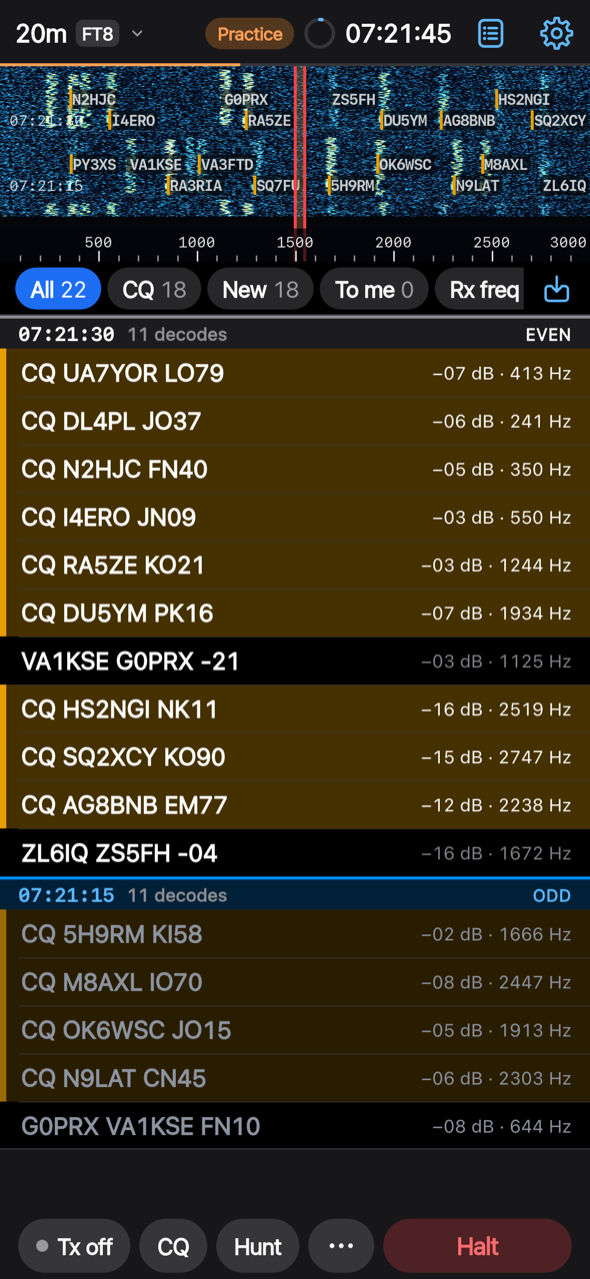
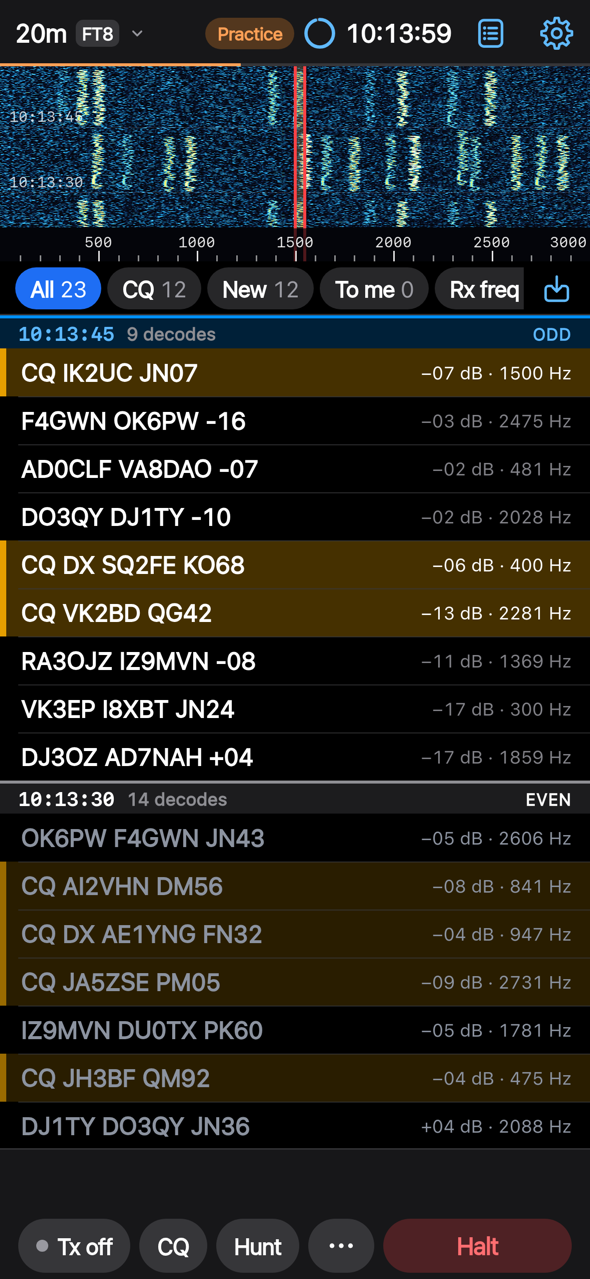
Start with the callsigns on the waterfall off
Labels over every signal crowd the phone's short waterfall. They now
start off, and Settings › Radio and audio turns them on. The README's
iPhone FT8 screenshots are taken again without them; the iPad and
desktop walkthrough runs turn them on, so those screenshots show the
feature.

Checks: settings test for the default, the practice band test turns
the labels on and off, walkthrough screens in SF fonts.

diff --git a/web/e2e/practice.spec.ts b/web/e2e/practice.spec.ts
@@ -94,15 +94,22 @@ test('practice on shows the tag and decodes the band without a microphone', asyn
   await expect(row(page, /^CQ /).first()).toBeVisible();
   expect(media).toEqual([]);
 
-  // The waterfall writes each sender over its signal; Radio and audio turns that off.
+  // Radio and audio turns on the sender written over each signal on the waterfall; off by default.
+  const labels = async (on: boolean) => {
+    await page.getByRole('navigation', { name: 'Screens' }).getByRole('link', { name: 'Settings' }).click();
+    await page.getByRole('link', { name: /^Radio and audio/ }).click();
+    const sw = page.getByRole('switch', { name: /^Callsigns on the waterfall/ });
+    await expect(sw).toBeChecked({ checked: !on });
+    await sw.setChecked(on);
+    await page.getByRole('link', { name: 'Settings', exact: true }).click();
+    await page.getByRole('link', { name: 'Operate' }).click();
+  };
+  await expect(page.getByTestId('wf-call')).toHaveCount(0);
+  await labels(true);
   const label = page.getByTestId('wf-call').first();
   await expect(label).toBeVisible({ timeout: 20_000 });
   await expect(page.getByTestId('decode-list').locator('.c-msg', { hasText: (await label.textContent())! }).first()).toBeVisible();
-  await page.getByRole('navigation', { name: 'Screens' }).getByRole('link', { name: 'Settings' }).click();
-  await page.getByRole('link', { name: /^Radio and audio/ }).click();
-  await page.getByRole('switch', { name: /^Callsigns on the waterfall/ }).uncheck();
-  await page.getByRole('link', { name: 'Settings', exact: true }).click();
-  await page.getByRole('link', { name: 'Operate' }).click();
+  await labels(false);
   await expect(page.getByTestId('wf-call')).toHaveCount(0);
 });
 

diff --git a/web/e2e/walkthrough.spec.ts b/web/e2e/walkthrough.spec.ts
@@ -17,11 +17,14 @@ test.beforeEach(async () => {
 /**
  * The station set up as after first use: callsign, grid, and a Tx frequency already picked on the
  * waterfall, so its first-use hint is gone. Then the practice band on, and Operate receiving.
+ * The iPad and desktop screenshots show the callsigns on the waterfall; the iPhone ones keep the
+ * default, off, so the phone's smaller waterfall stays clear.
  */
 async function practiceOn(page: Page, theme: 'light' | 'dark') {
   await useTheme(page, theme);
   await page.goto('./');
-  await seed(page, { ...emptySeed(), kv: [{ key: 'settings', value: { callsign: '9V1NE', grid: 'OJ11', freqPicked: true } }] });
+  const waterfallCalls = test.info().project.name !== 'walkthrough';
+  await seed(page, { ...emptySeed(), kv: [{ key: 'settings', value: { callsign: '9V1NE', grid: 'OJ11', freqPicked: true, waterfallCalls } }] });
   await page.goto('./#/settings/practice');
   await page.getByRole('switch', { name: /^Practice band/ }).check();
   await page.getByRole('link', { name: 'Settings' }).click();

diff --git a/web/src/lib/state/settings.svelte.ts b/web/src/lib/state/settings.svelte.ts
@@ -114,7 +114,7 @@ export interface Settings {
   highlights: HighlightEntry[];
   /** How many dB over the noise reach the top of the waterfall's colours (waterfall/levels.ts). */
   waterfallContrast: Contrast;
-  /** FT8 and FT4 write the callsigns of their decodes over the signals on the waterfall. */
+  /** FT8 and FT4 write the callsigns of their decodes over the signals on the waterfall; off by default. */
   waterfallCalls: boolean;
   /** Minutes without a touch before Operate turns to the night display; 0 never. */
   nightAfterMin: NightAfter;
@@ -159,7 +159,7 @@ export const DEFAULTS: Settings = {
   features: { ...FEATURES_OFF },
   highlights: defaultHighlights(),
   waterfallContrast: 'normal',
-  waterfallCalls: true,
+  waterfallCalls: false,
   nightAfterMin: 0,
   wspr: { ...WSPR_DEFAULTS },
   myName: '',

diff --git a/web/src/lib/state/settings.test.ts b/web/src/lib/state/settings.test.ts
@@ -23,6 +23,9 @@ describe('settings', () => {
     expect(DEFAULTS.mode).toBe('FT8');
     expect(DEFAULTS.features).toEqual({ activations: false, potaSpots: false, clusterSpots: false });
     expect(DEFAULTS.theme).toBe('light');
+    // Callsigns on the waterfall, and the night display, are the operator's to turn on.
+    expect(DEFAULTS.waterfallCalls).toBe(false);
+    expect(DEFAULTS.nightAfterMin).toBe(0);
   });
 
   it('normalises callsigns', () => {
